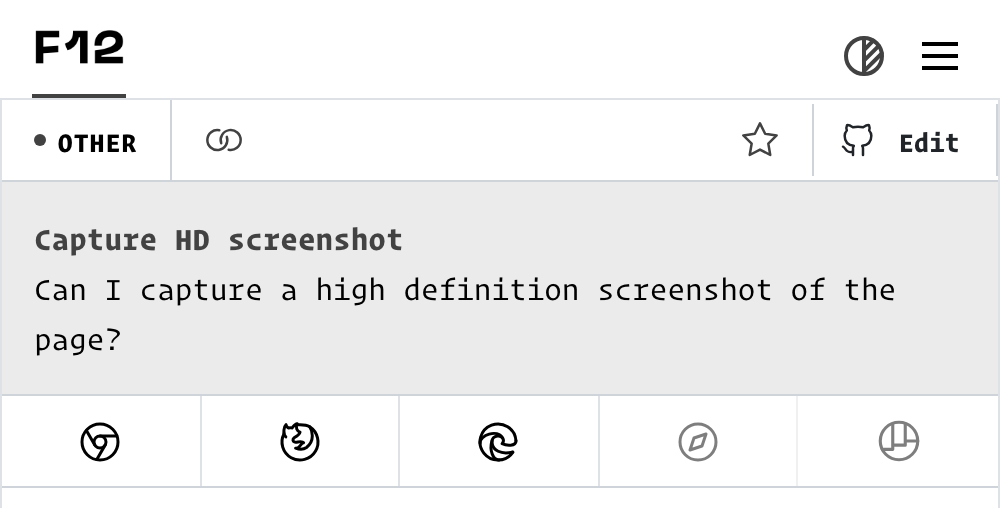
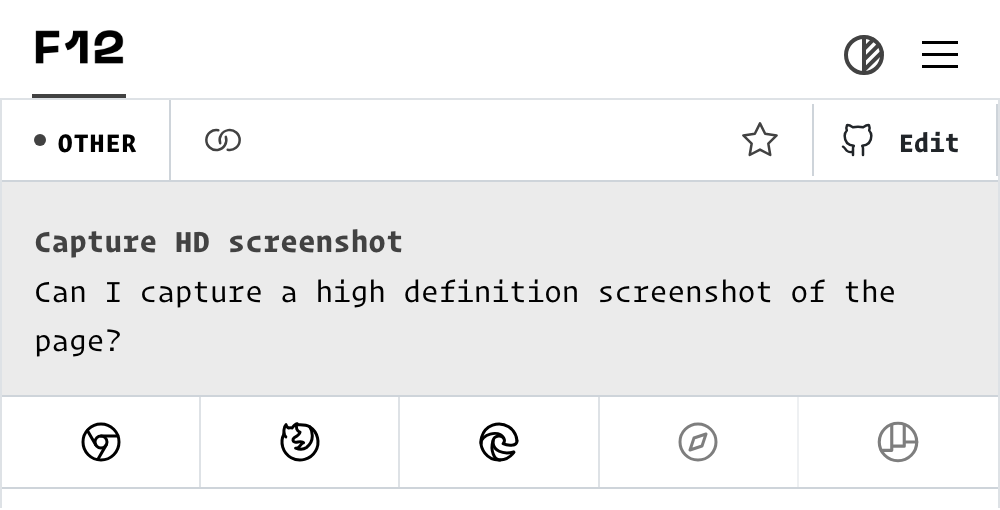
updated watermark

diff --git a/README.md b/README.md
@@ -246,7 +246,7 @@ Can I capture a high definition screenshot of the page?
 
 
 
-![](https://res.cloudinary.com/canidevtools/image/upload/l_watermark,w_50,o_10/capture-hd-screenshot-firefox.png)
+![](https://res.cloudinary.com/canidevtools/image/upload/l_watermark,w_200,o_5/capture-hd-screenshot-firefox.png)
 
 [Edge](https://canidev.tools/capture-hd-screenshot/edge): 
 1. In Devtools, click the **Toggle device toolbar** icon (`Cmd+Shift+M` or `Ctrl+Shift+M`) to enter the responsive design mode.
